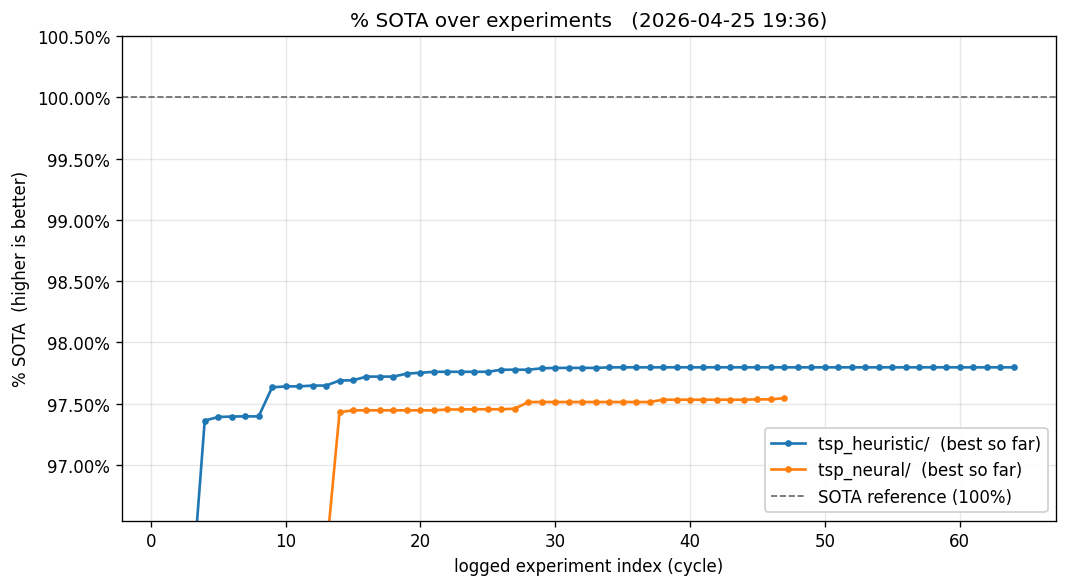
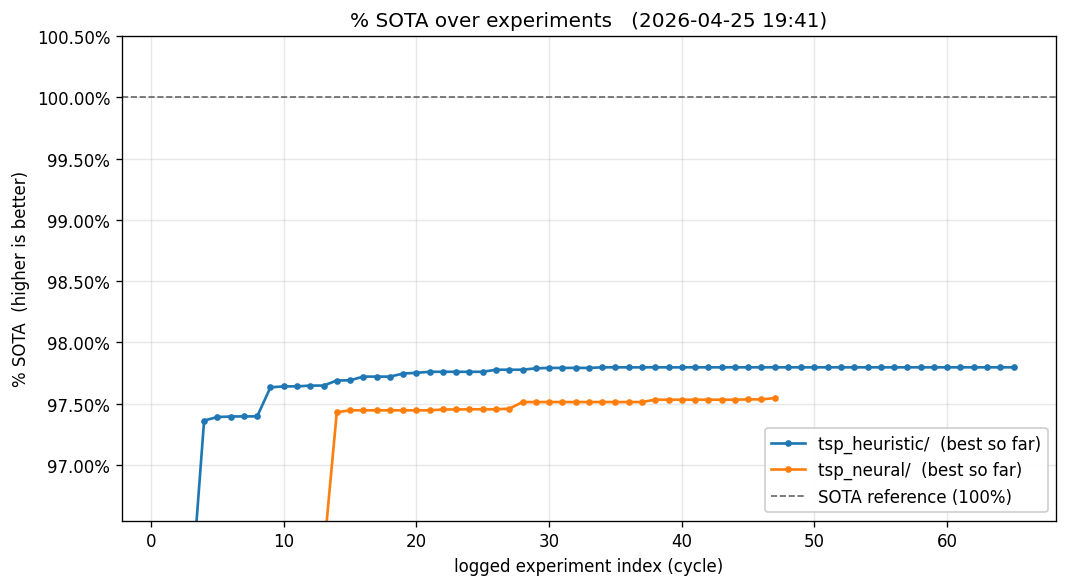
docs: status + chart refresh (auto-tick 19:41) — neural NEW BEST + multi-seed-eval lands
Big confirmation that the recent meta-tooling (multi-seed-eval skill,
untried-ideas skill, ILS_SEED env hookup) is being USED by the agents.

Heuristic: 64→65 cycles. L8 (depth-2 LK-chain, the just-injected
research-classical idea) tried — discarded +413 vs X8 best. Agent
invoked multi-seed-eval (seeds 1/2/3 confirmed via the new just
multiseed recipe + ILS_SEED hookup). Best unchanged at 1,547,351.

Neural: 46→47 cycles. C19 PILS+parallel-init NEW BEST at 1,551,147
(−158 vs prior). Skips sequential init converge; first batch is
8 workers × 30s from NN+1xDB. 11 batches / 6 accepts. Agent invoked
multi-seed-eval — median 1,550,920 (all 3 seeds beat C14 best).
Real improvement, not RNG luck.

Badges: heuristic 97.80% (flat), neural 97.54% → 97.55%.
Δ12: heuristic +0.000pp (long plateau), neural +0.022pp → +0.032pp.

The new skills landed and are ALREADY firing in production. ✓

diff --git a/README.md b/README.md
@@ -87,7 +87,7 @@ out-of-band cron driver (separate from either loop's session).
 
 ## Status
 
-*As of 2026-04-25 19:11 EDT. SOTA = 1,514,000 (Santa 2018 top
+*As of 2026-04-25 19:41 EDT. SOTA = 1,514,000 (Santa 2018 top
 public-LB). `val_cost` is the official Santa 2018 cost (lower is
 better). `% SOTA` = `100 − gap`, where `gap = (val_cost − SOTA) / SOTA`.
 **Δ12** = improvement in `% SOTA` over the last 12 experiments (in
@@ -95,8 +95,8 @@ percentage points; positive = progressing).*
 
 | Loop | % SOTA | Δ12 | Best `val_cost` | Cycles |
 |---|---|---|---|---|
-| `tsp_heuristic/` | 97.80% | +0.000pp | 1,547,351 | 64 |
-| `tsp_neural/`    | 97.54% | +0.022pp | 1,551,306 | 46 |
+| `tsp_heuristic/` | 97.80% | +0.000pp | 1,547,351 | 65 |
+| `tsp_neural/`    | 97.55% | +0.032pp | 1,551,147 | 47 |
 
 ![Progress](progress.png)
 
